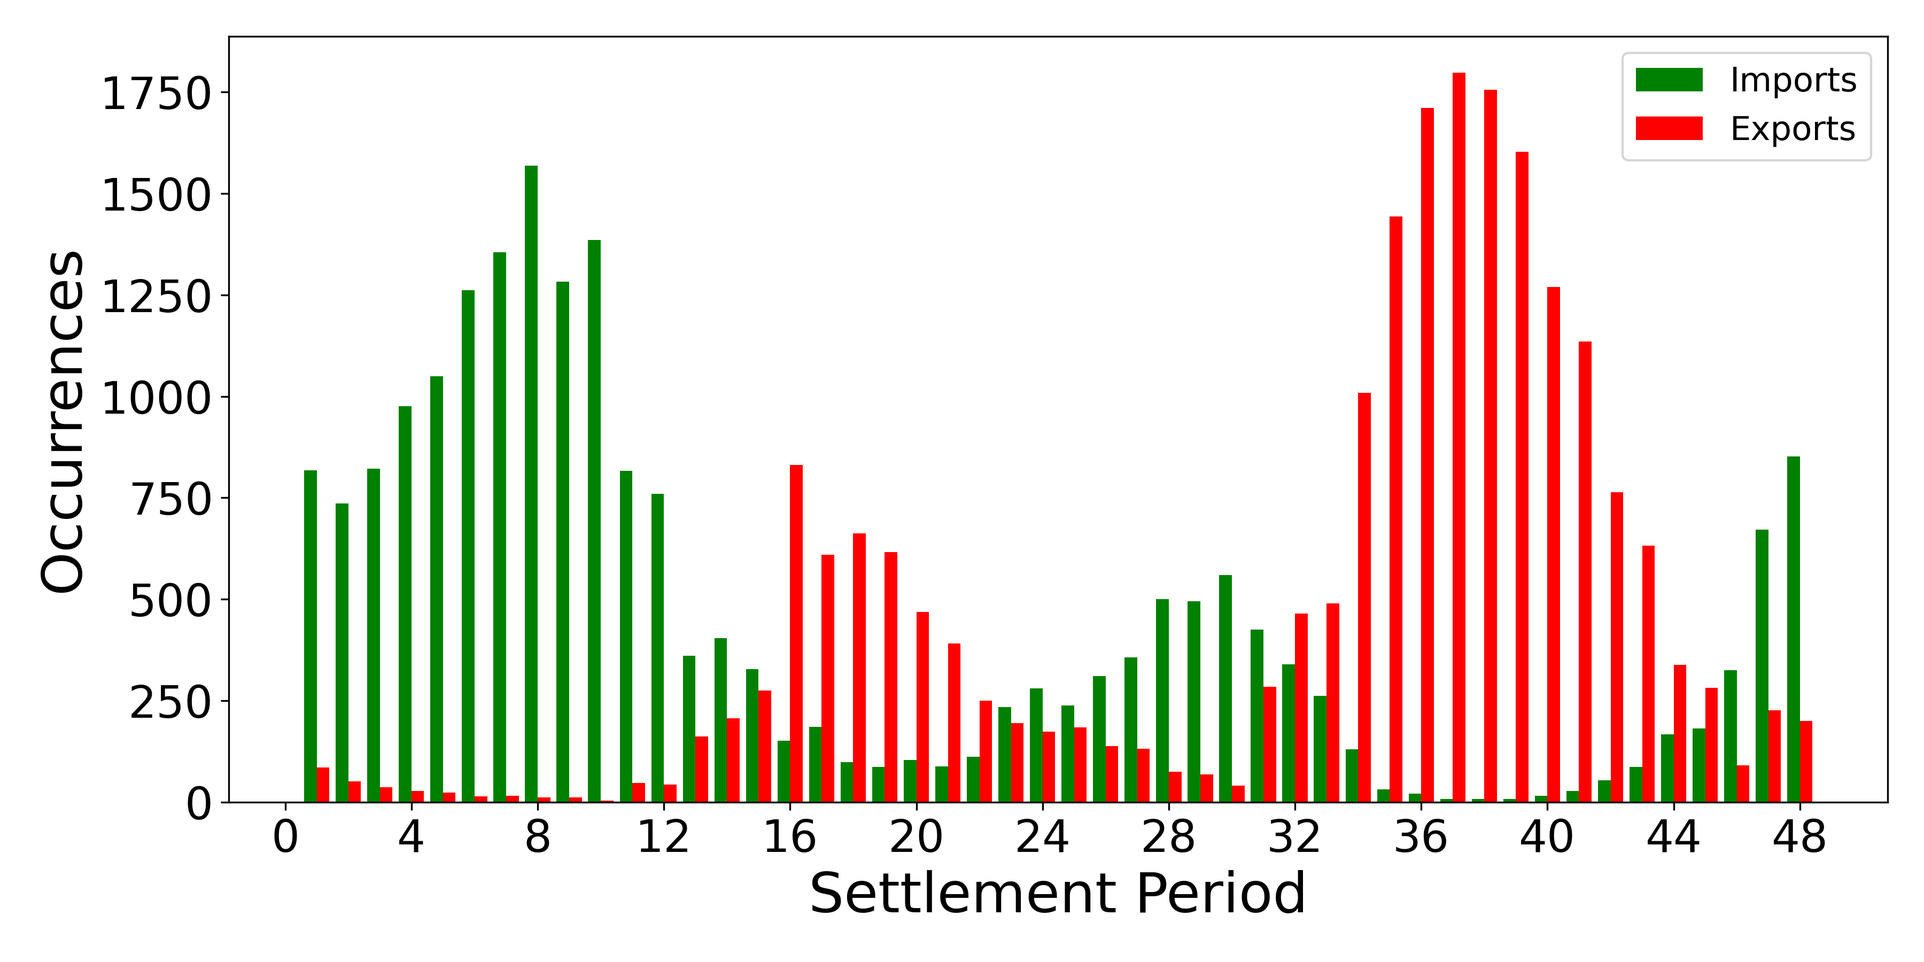
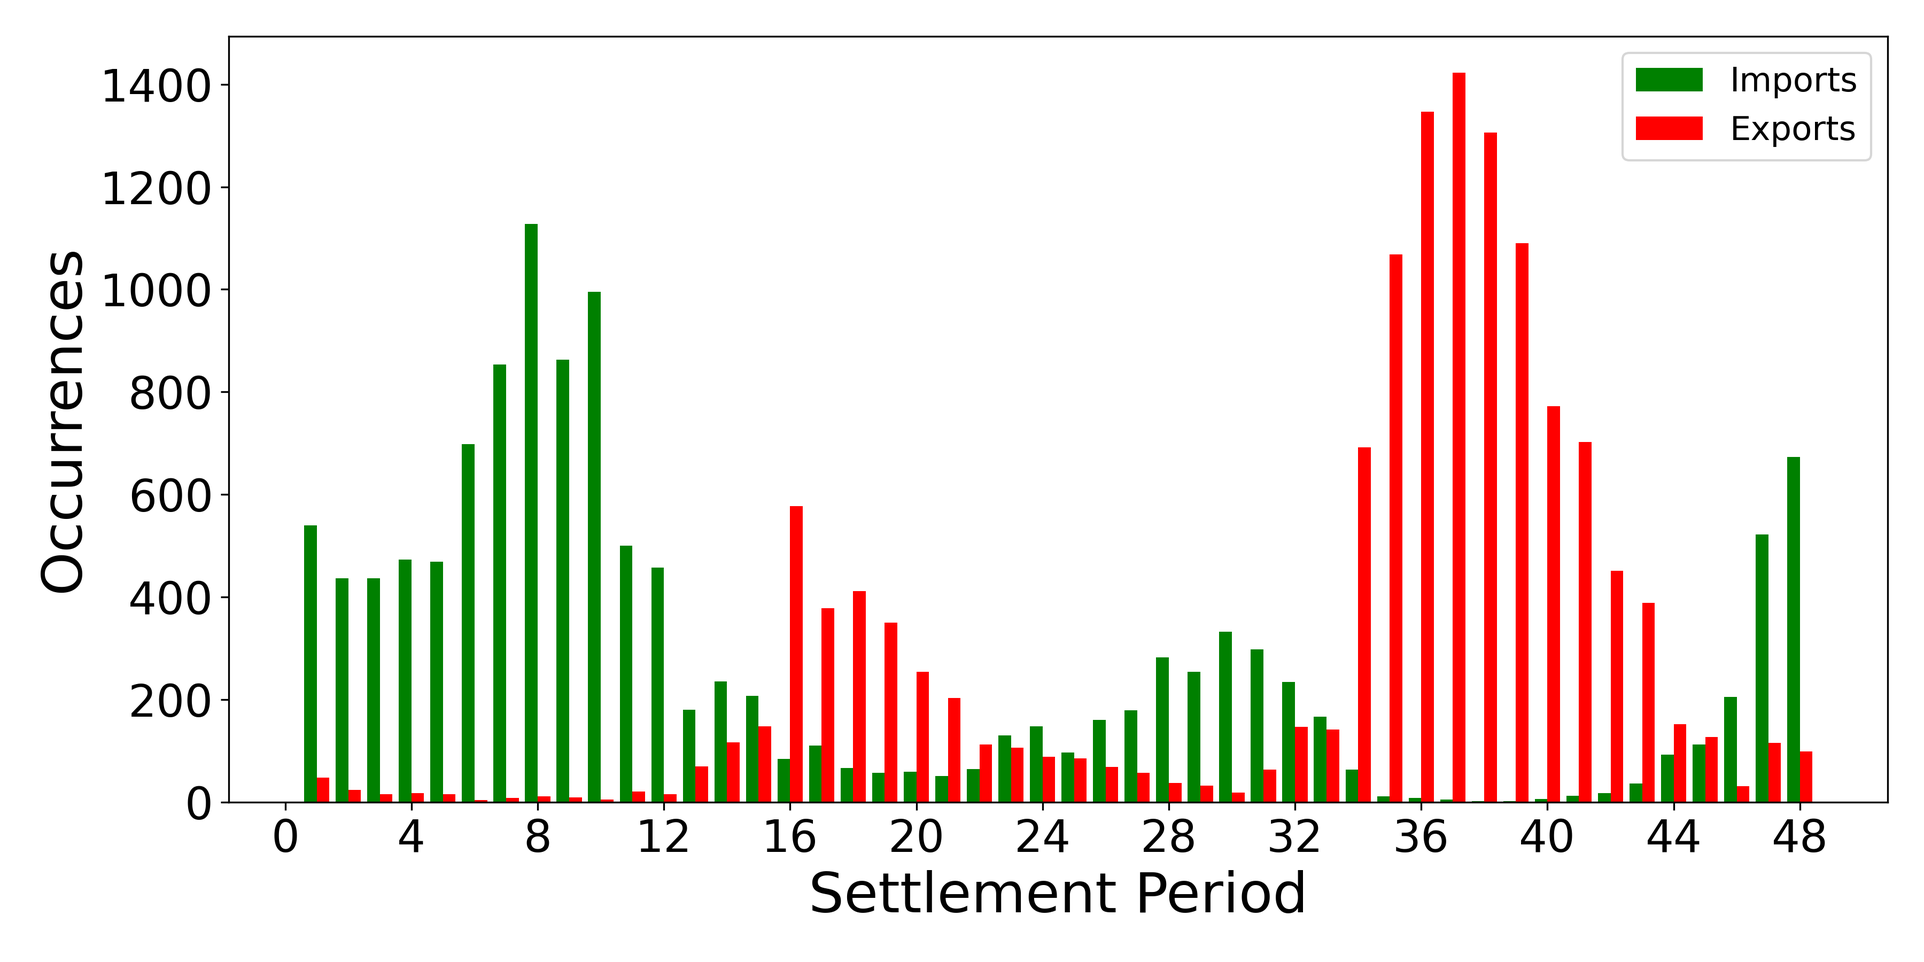
Run the battery at its full 15 MW
Each half-hour now moves up to 7.5 MWh (15 MW for half an hour), or only
what still fits when the battery is nearly full or empty, so a full charge
takes 5 half-hours. The price-ranked strategies trade the 5 cheapest and
5 dearest half-hours a day. Results, figures, tests and README updated.

diff --git a/rp3/battery.py b/rp3/battery.py
@@ -6,18 +6,19 @@ A strategy is just a choice of *action* for every half-hour:
 
 Battery rules:
 
-* State of charge (SoC) runs from 0 to 1 in steps of ``soc_step`` (0.125, so eight
-  half-hour trades fill or empty it). A trade that would leave 0..1 is skipped.
-* A trade moves exactly the energy of one SoC step: ``soc_step x capacity`` MWh
-  (4.18 MWh when new). It is bought or sold at that half-hour's price (GBP/MWh), and
-  the revenue from a sale is reduced by the round-trip efficiency.
-* That energy in half an hour needs 8.4 MW, within the 15 MW grid connection
-  (``capacity / capacity_to_power_ratio``); :class:`Battery` checks this.
-* One full cycle is a SoC distance of 2 (fully charge and fully discharge).
-  After ``n`` full cycles the capacity is ``capacity * (1 - n * degradation)``.
+* The battery charges and discharges at its full grid connection, ``capacity /
+  capacity_to_power_ratio`` (15 MW when new). In one half-hour that moves up to
+  ``power x 0.5 h`` = 7.5 MWh, or only what still fits if it is nearly full or empty,
+  so a full charge takes 5 half-hours (4 x 7.5 MWh + 3.46 MWh).
+* Energy is bought or sold at that half-hour's price (GBP/MWh); the revenue from a
+  sale is reduced by the round-trip efficiency. A trade with nothing to move is skipped.
+* One full cycle is a state-of-charge distance of 2 (fully charge and fully
+  discharge). After ``n`` full cycles the capacity is
+  ``capacity * (1 - n * degradation)``, and the power falls with it.
 
 Days and hours are UK local time, as in the GB market.
 """
+import math
 from dataclasses import dataclass
 
 import numpy as np
@@ -29,7 +30,8 @@ from rp3.data_prep import settlement_date, uk_time
 IDLE, IMPORT, EXPORT = 0, 1, 2
 RESULT_COLUMNS = ["Action", "Executed", "SoC", "Energy (MWh)", "Cost", "Revenue", "Rolling Cashflow",
                   "Total Cycles Achieved"]
-HOURS_PER_TRADE = 0.5
+HOURS_PER_TRADE = 0.5      # one settlement period
+MIN_TRADE_MWH = 1e-6       # smaller moves count as "nothing to move"
 
 
 @dataclass(frozen=True)
@@ -37,33 +39,33 @@ class Battery:
     capacity_mwh: float = config.BATTERY_CAPACITY_MWH
     degradation_per_cycle: float = config.DEGRADATION_PER_CYCLE
     round_trip_efficiency: float = config.ROUND_TRIP_EFFICIENCY
-    soc_step: float = config.SOC_STEP
     capacity_to_power_ratio: float = config.CAPACITY_TO_POWER_RATIO
-
-    def __post_init__(self):
-        if self.energy_per_trade_mwh / HOURS_PER_TRADE > self.power_mw + 1e-9:
-            raise ValueError(f"A SoC step of {self.soc_step} needs {self.energy_per_trade_mwh / HOURS_PER_TRADE:.1f} MW "
-                             f"in half an hour, more than the {self.power_mw:.1f} MW grid connection")
-
-    @property
-    def steps_to_full(self):
-        return int(round(1 / self.soc_step))
 
     @property
     def power_mw(self):
+        """Grid connection while new (15 MW)."""
         return self.capacity_mwh / self.capacity_to_power_ratio
 
     @property
     def energy_per_trade_mwh(self):
-        """Energy of one trade while the battery is new."""
-        return self.soc_step * self.capacity_mwh
+        """Most energy one half-hour can move while new (7.5 MWh)."""
+        return self.power_mw * HOURS_PER_TRADE
+
+    @property
+    def slots_to_full(self):
+        """Half-hours needed to fill (or empty) the battery: 5."""
+        return math.ceil(self.capacity_mwh / self.energy_per_trade_mwh - 1e-9)
 
 
 # ---------------------------------------------------------------------------
 # Strategies: each returns one action per row
 # ---------------------------------------------------------------------------
 def time_based_actions(start_times, import_hours=config.IMPORT_HOURS, export_hours=config.EXPORT_HOURS):
-    """Buy in a fixed night window and sell in a fixed evening window (inclusive UK local hours)."""
+    """Buy in a fixed night window and sell in a fixed evening window (inclusive UK local hours).
+
+    The battery fills (or empties) in the first 5 half-hours of a window; later
+    trades in the window are skipped.
+    """
     hour = uk_time(start_times).hour
     actions = np.full(len(hour), IDLE, dtype=np.int8)
     actions[(hour >= import_hours[0]) & (hour <= import_hours[1])] = IMPORT
@@ -71,12 +73,13 @@ def time_based_actions(start_times, import_hours=config.IMPORT_HOURS, export_hou
     return actions
 
 
-def price_ranked_actions(prices, days, n_slots=config.SLOTS_PER_DAY):
+def price_ranked_actions(prices, days, n_slots=Battery().slots_to_full):
     """Each day, buy in the ``n_slots`` cheapest half-hours and sell in the ``n_slots`` dearest.
 
     ``prices`` is what the decision is based on: the real price (perfect foresight)
-    or a forecast. Ties go to the earlier half-hour. On a day with fewer than
-    ``2 * n_slots`` rows a slot can be in both sets, and selling wins.
+    or a forecast. ``n_slots`` defaults to the half-hours needed to fill the battery.
+    Ties go to the earlier half-hour. On a day with fewer than ``2 * n_slots`` rows
+    a slot can be in both sets, and selling wins.
     """
     ranks = pd.DataFrame({"price": np.asarray(prices), "day": np.asarray(days)}).groupby("day")["price"]
     cheapest = ranks.rank(method="first", ascending=True) <= n_slots
@@ -87,51 +90,52 @@ def price_ranked_actions(prices, days, n_slots=config.SLOTS_PER_DAY):
 # ---------------------------------------------------------------------------
 # Simulation
 # ---------------------------------------------------------------------------
-def _walk_soc(actions, steps_to_full):
-    """SoC level (in whole steps) after each row, and which trades actually happened.
-
-    This is the only part that has to be a loop: whether a trade fits depends on
-    every earlier trade. It runs on plain integers, so it is fast.
-    """
-    level = 0
-    levels = np.empty(len(actions), dtype=np.int64)
-    executed = np.zeros(len(actions), dtype=np.int8)
-    for i, action in enumerate(np.asarray(actions).tolist()):
-        if action == IMPORT and level < steps_to_full:
-            level += 1
-            executed[i] = IMPORT
-        elif action == EXPORT and level > 0:
-            level -= 1
-            executed[i] = EXPORT
-        levels[i] = level
-    return levels, executed
-
-
 def simulate(actions, trade_prices, battery=Battery()):
-    """Play the actions through the battery and return the trade results per row."""
+    """Play the actions through the battery and return the trade results per row.
+
+    This has to be a loop: how much a trade can move depends on the energy already
+    stored and on the degradation from every earlier trade. It runs on plain floats,
+    so the 146,000 half-hours take well under a second.
+    """
+    actions = np.asarray(actions)
     trade_prices = np.asarray(trade_prices, dtype=float)
-    levels, executed = _walk_soc(actions, battery.steps_to_full)
+    n = len(actions)
+    energy = np.zeros(n)          # MWh moved: + charge, - discharge
+    soc = np.zeros(n)
+    cycles_done = np.zeros(n, dtype=np.int64)
 
-    # Every executed trade moves the SoC by one step; 2 / step trades = one full cycle
-    trades_per_cycle = 2 * battery.steps_to_full
-    cycles_after = np.cumsum(executed != IDLE) // trades_per_cycle
-    cycles_before = np.concatenate(([0], cycles_after[:-1]))
+    stored, distance, cycles = 0.0, 0.0, 0     # MWh stored, SoC distance travelled, full cycles
+    for i, action in enumerate(actions.tolist()):
+        capacity = max(battery.capacity_mwh * (1.0 - cycles * battery.degradation_per_cycle), 0.0)
+        most = capacity / battery.capacity_to_power_ratio * HOURS_PER_TRADE
+        if action == IMPORT:
+            moved = min(most, capacity - stored)
+        elif action == EXPORT:
+            moved = -min(most, stored)
+        else:
+            moved = 0.0
+        if abs(moved) < MIN_TRADE_MWH:
+            moved = 0.0
+        stored = min(max(stored + moved, 0.0), capacity)
+        if capacity > 0:
+            distance += abs(moved) / capacity
+        cycles = int(distance / 2 + 1e-9)
+        energy[i], soc[i], cycles_done[i] = moved, (stored / capacity if capacity else 0.0), cycles
 
-    capacity = np.maximum(battery.capacity_mwh * (1.0 - cycles_before * battery.degradation_per_cycle), 0.0)
-    energy = np.where(executed != IDLE, battery.soc_step * capacity, 0.0)
-    cost = np.where(executed == IMPORT, -energy * trade_prices, 0.0)
-    revenue = np.where(executed == EXPORT, energy * trade_prices * battery.round_trip_efficiency, 0.0)
-
+    executed = np.where(energy > 0, IMPORT, np.where(energy < 0, EXPORT, IDLE)).astype(np.int8)
+    cost = np.where(energy > 0, -energy * trade_prices, 0.0)
+    revenue = np.where(energy < 0, -energy * trade_prices * battery.round_trip_efficiency, 0.0)
+    cycles_before = np.concatenate(([0], cycles_done[:-1]))
     return pd.DataFrame({
-        "Action": np.asarray(actions),
+        "Action": actions,
         "Executed": executed,
-        "SoC": levels * battery.soc_step,
-        "Energy (MWh)": energy,
+        "SoC": soc,
+        "Energy (MWh)": np.abs(energy),
         "Cost": cost,
         "Revenue": revenue,
         "Rolling Cashflow": np.cumsum(cost + revenue),
         # Filled only on the rows where a new full cycle completes
-        "Total Cycles Achieved": np.where(cycles_after > cycles_before, cycles_after, np.nan),
+        "Total Cycles Achieved": np.where(cycles_done > cycles_before, cycles_done, np.nan),
     })
 
 
@@ -153,7 +157,7 @@ def time_based_trades(prices, battery=Battery()):
 def price_based_trades(prices, battery=Battery()):
     """Perfect-foresight benchmark: picks each UK day's slots from the real prices."""
     prices = prices.sort_values("StartTime", ignore_index=True)
-    actions = price_ranked_actions(prices["Price"], settlement_date(prices["StartTime"]))
+    actions = price_ranked_actions(prices["Price"], settlement_date(prices["StartTime"]), battery.slots_to_full)
     return run_strategy(prices, actions, "Price", battery)
 
 
@@ -166,7 +170,7 @@ def ann_based_trades(forecast, prices, battery=Battery()):
     table = forecast[["StartTime", "PredictedPrice"]].merge(
         prices[["StartTime", "SettlementDate", "SettlementPeriod", "Price"]], on="StartTime", how="inner"
     ).sort_values("StartTime", ignore_index=True)
-    actions = price_ranked_actions(table["PredictedPrice"], settlement_date(table["StartTime"]))
+    actions = price_ranked_actions(table["PredictedPrice"], settlement_date(table["StartTime"]), battery.slots_to_full)
     return run_strategy(table, actions, "Price", battery)
 
 

diff --git a/tests/test_battery.py b/tests/test_battery.py
@@ -13,37 +13,41 @@ def test_soc_stays_between_empty_and_full():
     actions = [EXPORT] + [IMPORT] * 10 + [EXPORT] * 10
     out = simulate(actions, np.full(21, 50.0), NO_DEGRADATION)
     assert out["SoC"].between(0, 1).all()
-    assert out["SoC"].max() == 1.0
-    # selling when empty and buying when full are skipped
+    assert out["SoC"].max() == pytest.approx(1.0)
+    # selling when empty and buying when full are skipped: 5 buys fill it, 5 sales empty it
     assert out["Executed"].iloc[0] == IDLE
-    assert (out["Executed"] != IDLE).sum() == 16
+    assert (out["Executed"] != IDLE).sum() == 10
 
 
-def test_each_trade_moves_the_energy_of_one_soc_step():
+def test_trades_run_at_the_full_grid_connection():
     b = NO_DEGRADATION
+    assert b.power_mw == pytest.approx(15.0, abs=0.01)
+    assert b.energy_per_trade_mwh == pytest.approx(7.5, abs=0.01)     # 15 MW for half an hour
+    assert b.slots_to_full == 5
     out = simulate([IMPORT, EXPORT], [10.0, 30.0], b)
-    energy = b.soc_step * b.capacity_mwh                      # 4.18 MWh
+    energy = b.energy_per_trade_mwh
     assert out["Energy (MWh)"].tolist() == pytest.approx([energy, energy])
     assert out["Cost"].tolist() == pytest.approx([-energy * 10, 0])
     assert out["Revenue"].tolist() == pytest.approx([0, energy * 30 * b.round_trip_efficiency])
-    # buying 8 steps adds up to exactly one full battery
-    full = simulate([IMPORT] * 8, np.ones(8), b)
-    assert full["Energy (MWh)"].sum() == pytest.approx(b.capacity_mwh)
 
 
-def test_trade_size_must_fit_the_grid_connection():
-    assert Battery().energy_per_trade_mwh / 0.5 <= Battery().power_mw
-    with pytest.raises(ValueError):
-        Battery(soc_step=0.5)                                  # 16.7 MWh in half an hour = 33 MW > 15 MW
+def test_the_last_trade_only_moves_what_fits():
+    b = NO_DEGRADATION
+    full = simulate([IMPORT] * 6, np.ones(6), b)
+    moved = full["Energy (MWh)"].to_numpy()
+    assert moved[:4] == pytest.approx([b.energy_per_trade_mwh] * 4)
+    assert moved[4] == pytest.approx(b.capacity_mwh - 4 * b.energy_per_trade_mwh)   # 3.46 MWh
+    assert moved[5] == 0 and full["Executed"].iloc[5] == IDLE
+    assert moved.sum() == pytest.approx(b.capacity_mwh)
 
 
-def test_one_full_cycle_degrades_the_next_trade():
+def test_one_full_cycle_degrades_capacity_and_power():
     b = Battery(degradation_per_cycle=0.1)
-    actions = [IMPORT] * 8 + [EXPORT] * 8 + [IMPORT]           # 16 trades = one full cycle
-    out = simulate(actions, np.ones(17), b)
-    assert out["Total Cycles Achieved"].iloc[15] == 1
-    assert out["Total Cycles Achieved"].isna().sum() == 16
-    assert out["Energy (MWh)"].iloc[16] == pytest.approx(out["Energy (MWh)"].iloc[0] * 0.9)
+    actions = [IMPORT] * 5 + [EXPORT] * 5 + [IMPORT]           # fill and empty = one full cycle
+    out = simulate(actions, np.ones(11), b)
+    assert out["Total Cycles Achieved"].iloc[9] == 1
+    assert out["Total Cycles Achieved"].isna().sum() == 10
+    assert out["Energy (MWh)"].iloc[10] == pytest.approx(out["Energy (MWh)"].iloc[0] * 0.9)
 
 
 def test_time_based_windows_follow_uk_local_time():
@@ -54,7 +58,7 @@ def test_time_based_windows_follow_uk_local_time():
         hours = times.tz_convert("Europe/London").hour
         assert (actions[(hours >= 1) & (hours <= 4)] == IMPORT).all()
         assert (actions[(hours >= 17) & (hours <= 20)] == EXPORT).all()
-        assert (actions == IMPORT).sum() == 8 and (actions == EXPORT).sum() == 8
+        assert (actions == IMPORT).sum() == 8 and (actions == EXPORT).sum() == 8   # windows are 4 hours
     # 16:00 UTC in July is 17:00 BST: a sell slot
     assert time_based_actions(pd.DatetimeIndex(["2024-07-15 16:00"], tz="UTC"))[0] == EXPORT
 

diff --git a/rp3/config.py b/rp3/config.py
@@ -54,9 +54,8 @@ PERIODS_PER_DAY = 48                  # half-hours in a normal day (46 / 50 on c
 BATTERY_CAPACITY_MWH = 33.46
 DEGRADATION_PER_CYCLE = 0.025 / 365   # 2.5 % capacity loss per year at one cycle per day
 ROUND_TRIP_EFFICIENCY = 0.9456
-SOC_STEP = 0.125                      # state-of-charge change per half-hour trade (8 trades fill it)
-CAPACITY_TO_POWER_RATIO = 2.231       # MWh of capacity per MW of grid connection (15.0 MW)
-SLOTS_PER_DAY = 8                     # half-hours bought and sold per day (= 1 / SOC_STEP)
+CAPACITY_TO_POWER_RATIO = 2.231       # MWh of capacity per MW of grid connection: 15.0 MW,
+                                      # so up to 7.5 MWh per half-hour and 5 half-hours to fill
 
 # Time-based strategy windows, inclusive UK local hours
 IMPORT_HOURS = (1, 4)     # 01:00-04:59: buy

diff --git a/run_backtests.py b/run_backtests.py
@@ -5,7 +5,7 @@
 
 Strategies (see rp3/battery.py):
   time   buy 01:00-04:59, sell 17:00-20:59 (UK time) every day
-  price  buy the 8 cheapest and sell the 8 dearest half-hours of each day, using the
+  price  buy the 5 cheapest and sell the 5 dearest half-hours of each day, using the
          real prices (perfect foresight, an upper benchmark)
   ann    the same, but choosing the half-hours from the ANN forecast
 """

diff --git a/README.md b/README.md
@@ -8,7 +8,7 @@ January 2025:
 | Strategy | How it picks the half-hours to trade |
 |---|---|
 | ⏰ **Time based** | Buys 01:00–04:59 and sells 17:00–20:59 (UK time) every day |
-| 🎯 **Price based** | Buys the 8 cheapest and sells the 8 dearest half-hours of each day, from the *real* prices (perfect foresight, so an upper benchmark) |
+| 🎯 **Price based** | Buys the 5 cheapest and sells the 5 dearest half-hours of each day, from the *real* prices (perfect foresight, so an upper benchmark) |
 | 🧠 **ANN based** | The same, but picks the half-hours from a neural-network forecast of the next day's prices |
 
 This is the third-year research project (RP3, 2025) that came before my fourth-year project (RP4). It
@@ -22,13 +22,13 @@ From `python run_backtests.py` (GBP millions):
 
 | Strategy | Profit 19 Sep 2016 → 20 Jan 2025 | Profit 24 May 2023 → 20 Jan 2025 | Full cycles |
 |---|---:|---:|---:|
-| Time based | 2.832 | 0.519 | 3043 |
-| Price based (perfect foresight) | 3.795 | 0.710 | 2666 |
-| ANN based | – | **0.629** | 559 |
+| Time based | 3.094 | 0.540 | 3045 |
+| Price based (perfect foresight) | 4.343 | 0.778 | 2678 |
+| ANN based | – | **0.694** | 561 |
 
 The ANN only has forecasts for its test period (the last 20 % of the data), so the three
 strategies are compared from the first full UK day of that period, 24 May 2023. Over that
-period the forecast closes **58 %** of the gap between fixed hours and perfect foresight.
+period the forecast closes **65 %** of the gap between fixed hours and perfect foresight.
 
 ANN test-set error, against the real (unclipped) price of each half-hour:
 
@@ -47,8 +47,9 @@ between runs are noise.
   <img src="images/Total Profit per Year for Predicted Price.png" width="48%">
 </p>
 
-> **These numbers are lower than in the 2025 report.** The report's profits were about 3.6 times
-> too high, because each trade was charged for 15 MWh while the battery only moved 4.18 MWh. See
+> **These numbers are lower than in the 2025 report.** The report charged every trade for 15 MWh
+> (`15 MW × price`), so 8 trades a day put 120 MWh through a 33.46 MWh battery. The battery now
+> runs at its full 15 MW (7.5 MWh per half-hour) and can only move what it can store. See
 > [Fixes since the report](#%EF%B8%8F-fixes-since-the-report) for this and the other corrections.
 
 ---
@@ -187,18 +188,22 @@ that fills in four half-hours, or change `IMPORT_HOURS` for the time-based strat
 | Capacity | 33.46 MWh, losing 2.5 % a year at one full cycle a day (0.025/365 per cycle) |
 | Grid connection | capacity / 2.231 ≈ 15.0 MW |
 | Round-trip efficiency | 94.56 %, applied to sales |
-| State of charge (SoC) step per trade | 0.125 (8 half-hour trades fill or empty it) |
+| Energy per half-hour trade | up to 15 MW × 0.5 h = 7.5 MWh (5 half-hours to fill: 4 × 7.5 + 3.46 MWh) |
 
-Every half-hour the strategy says *buy*, *sell* or *wait*. A buy is skipped if the battery is full,
-and a sale is skipped if it is empty. Each trade moves one SoC step of energy, 0.125 × capacity
-(4.18 MWh when new, 8.4 MW for half an hour, within the 15 MW connection). A buy costs
-`energy × price` and a sale earns `energy × price × efficiency`. One full cycle is a SoC distance of
-2 (fill and empty), and the capacity shrinks after each cycle. Days and hours are UK local time.
+Every half-hour the strategy says *buy*, *sell* or *wait*. The battery trades at its full grid
+connection, so a half-hour moves 7.5 MWh, or only what still fits when it is nearly full or empty
+(nothing at all when it is full or empty). A buy costs `energy × price` and a sale earns
+`energy × price × efficiency`. One full cycle is a state-of-charge distance of 2 (fill and empty);
+after each cycle the capacity, and with it the power, shrinks. Days and hours are UK local time.
+
+Because a full charge takes 5 half-hours, the price-ranked strategies trade the 5 cheapest and
+5 dearest half-hours of each day. The time-based strategy keeps its 4-hour windows and fills or
+empties in the first 2.5 hours of each.
 
 **Speed:** the original scripts updated a DataFrame one row at a time (81 s for the time-based run,
-59 s for the price-based one). Now only the SoC walk is a loop, over plain integers. The daily
-ranking, cycle counting, degradation and cash flows are whole-array operations, so the runs take
-0.06 s and 0.18 s.
+59 s for the price-based one). Now the daily ranking is a whole-array operation and the battery
+is a plain loop over numbers (its state depends on every earlier trade), so the runs take 0.25 s
+and 0.3 s.
 
 ### ANN forecast (`rp3/forecasting.py`)
 
@@ -245,7 +250,7 @@ The first refactor kept the report's behaviour exactly. These modelling problems
 | # | Problem in the 2025 code | Fix | Effect |
 |---|---|---|---|
 | 1 | **ANN traded one day out of step:** the forecast for `t + 1 day` was used to trade at the price at `t` | Each forecast row is the half-hour it predicts, and trades at that half-hour's price | ANN profit +2 % (£2.055m → £2.097m) |
-| 2 | **Energy per trade didn't match the battery:** each trade moved 4.18 MWh of charge but was charged/paid for 15 MWh (`15 MW × price`) | Cash flow = energy of one SoC step × price; the power is checked against the 15 MW connection | All profits ÷ 3.6 |
+| 2 | **Energy per trade didn't match the battery:** each trade moved 4.18 MWh of charge but was charged/paid for 15 MWh (`15 MW × price`), i.e. 120 MWh a day through a 33.46 MWh battery | The battery trades at its full 15 MW: 7.5 MWh per half-hour, limited by what it can store, 5 slots a day | Profits about 3.3× lower |
 | 3 | **Everything in UTC,** while GB trading days, settlement periods and the evening peak follow UK time | Strategy hours, trading days and settlement periods use UK local time | Time-based +3.7 % (£9.795m → £10.155m) |
 | 4 | **ANN scored against clipped prices** (spikes replaced by 73 in the target) | Trained on clipped prices, scored on real ones | Reported RMSE 25.8 was really 32.6 |
 | 5 | **Wind ×100 weight** (cancelled by min-max scaling) and **no fixed seed** | Weight removed; `SEED = 42` | Runs are repeatable |
@@ -257,7 +262,7 @@ The first refactor kept the report's behaviour exactly. These modelling problems
 | 11 | Forecasts came from an incomplete website export; solar gaps rounded to whole MW; made-up `PublishTime` for gaps | API download (3,230 more real half-hours); same rounding for all; gaps marked `Filled` | |
 
 Remaining limitations, by design: the price-based strategy has perfect foresight (an upper bound,
-not a real strategy); trades are a fixed 8 slots a day of 4.18 MWh; prices are the Market Index
+not a real strategy); the battery always fills and empties once a day in fixed-size trades; prices are the Market Index
 (short-term spot), not a specific day-ahead auction; no fees, imbalance costs or bid-offer spread.
 
 ### What the refactor changed
